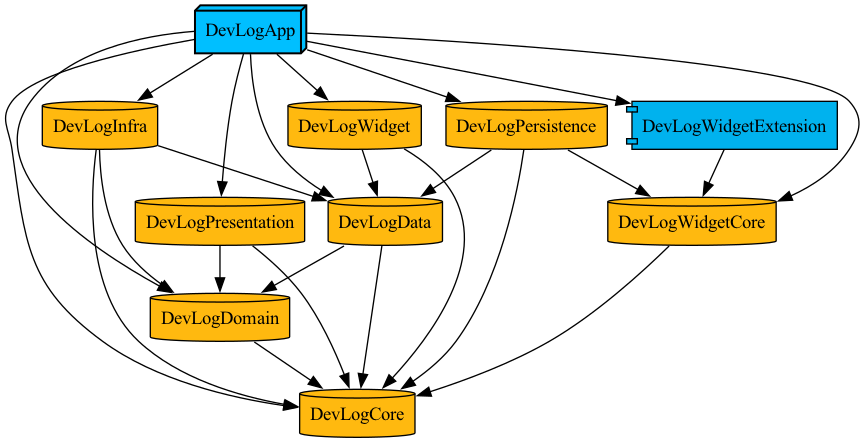
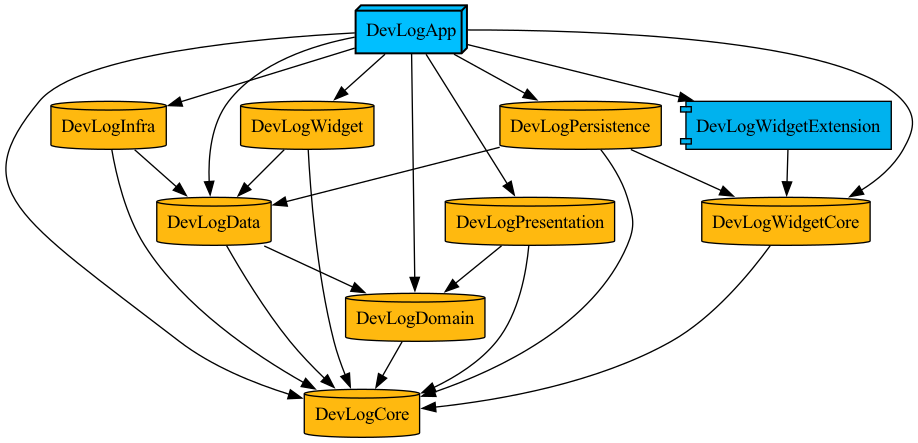
[#561] 하네스의 의존성 방향 지시문을 수정한다 (#566)
* chore: 아키텍처 하네스 모듈 경계 갱신

* chore: 같은 레이어 내부 DI 제한 지침 추가

* refactor: Infra Domain 타깃 의존성 제거

* docs: Tuist 모듈 그래프 갱신

* chore: Widget 중심 위젯 브리지 소유권 지침 정리

diff --git a/Application/DevLogInfra/Project.swift b/Application/DevLogInfra/Project.swift
@@ -10,7 +10,6 @@ let project = Project.devlogFramework(
     packages: DevLogPackages.infraPackages,
     dependencies: [
         .project(target: "DevLogData", path: "../DevLogData"),
-        .project(target: "DevLogDomain", path: "../DevLogDomain"),
         .project(target: "DevLogCore", path: "../DevLogCore"),
     ] + DevLogPackages.infraPackageDependencies,
     hasTests: true

diff --git a/.hermes/skills/devlog-architecture-harness/references/devlog-architecture-flow.md b/.hermes/skills/devlog-architecture-harness/references/devlog-architecture-flow.md
@@ -77,8 +77,9 @@ flowchart TD
 	Domain["DevLogDomain\nEntities\nRepository protocols\nUse cases"]
 	Data["DevLogData\nRepository implementations\nDTOs\nMappers\nService/store protocols"]
 	Infra["DevLogInfra\nFirebase\nSocial login\nNetwork\nLink metadata\nMessaging"]
-	Persistence["DevLogPersistence\nUserDefaults\nImage store\nWidget snapshot persistence"]
-	Core["DevLogCore\nDI\nLogger\nShared value/query types\nWidget snapshot values"]
+	Persistence["DevLogPersistence\nUserDefaults\nImage store\nNon-widget app persistence"]
+	Widget["DevLogWidget\nApp-side widget bridge\nSync/session handlers\nSnapshot update orchestration\nWidgetKit reload bridge"]
+	Core["DevLogCore\nDI\nLogger\nShared value/query types\nLightweight widget values"]
 	WidgetCore["DevLogWidgetCore\nWidget snapshot models\nFactories\nApp Group constants"]
 	WidgetExtension["DevLogWidgetExtension\nWidgetKit UI\nProviders\nTimelines"]
 
@@ -88,7 +89,9 @@ flowchart TD
 	App --> Infra
 	App --> Persistence
 	App --> Core
+	App --> Widget
 	App --> WidgetCore
+	App -.-> WidgetExtension
 
 	Presentation --> Domain
 	Presentation --> Core
@@ -103,7 +106,10 @@ flowchart TD
 
 	Persistence --> Data
 	Persistence --> Core
-	Persistence --> WidgetCore
+
+	Widget --> Data
+	Widget --> Core
+	Widget --> WidgetCore
 
 	WidgetExtension --> WidgetCore
 	WidgetCore --> Core
@@ -113,15 +119,26 @@ flowchart TD
 
 | Layer | Owns | Allowed direction | Ask before |
 | --- | --- | --- | --- |
-| `DevLogCore` | DI primitives, logger, shared value/query types, widget snapshot values | No DevLog layer dependency | Moving domain entities into Core |
+| `DevLogCore` | DI primitives, logger, shared value/query types, display options, activity kinds, lightweight widget bridge values | No DevLog layer dependency | Moving domain entities into Core |
 | `DevLogDomain` | entities, repository protocols, use cases | Core only | Adding Data, Infra, Persistence, Presentation, App, Widget UI, or SDK dependency |
-| `DevLogData` | repository implementations, DTOs, mappers, data protocols | Domain, Core | Adding concrete Firebase, WidgetKit, storage, or platform implementation details |
-| `DevLogInfra` | Firebase, social login, network, metadata, messaging implementations | Data, Core | Moving SDK-specific behavior out of Infra |
-| `DevLogPersistence` | local stores, image cache, widget snapshot persistence | Data, Core, WidgetCore | Moving domain logic or remote SDK behavior into Persistence |
-| `DevLogPresentation` | UI, view models, coordinators, presentation state | Domain, Core | Adding Data, Infra, Persistence, or App dependency |
-| `DevLogApp` | composition root, lifecycle, assembler wiring | Concrete app layers | Moving feature logic into App |
-| `DevLogWidgetCore` | widget data contracts and pure snapshot logic | Core | Adding Domain, Data, Infra, Persistence, Presentation, or App dependency |
+| `DevLogData` | repository implementations, DTOs, mappers, data protocols, widget repository/updater/sync contracts | Domain, Core | Adding concrete Firebase, GoogleSignIn, WidgetKit, storage, WidgetCore snapshot model/factory usage, or platform implementation details; moving concrete widget handlers into Data |
+| `DevLogInfra` | Firebase, social login, network, metadata, messaging implementations | Data, Core | Moving SDK-specific behavior out of Infra; adding any Domain dependency, source import, or SDK service contract coupling |
+| `DevLogPersistence` | local stores, image cache, non-widget app persistence | Data, Core | Adding WidgetCore, WidgetKit reload, DevLogWidget, widget snapshot generation, or widget bridge ownership |
+| `DevLogPresentation` | UI, view models, coordinators, presentation state, narrow presentation-scoped platform side effects | Domain, Core | Adding Data, Infra, Persistence, or App dependency; expanding platform service ownership beyond UI-side effects |
+| `DevLogWidget` | app-side widget bridge, sync bus implementation, sync/session handlers, snapshot generation/persistence orchestration, WidgetKit reload bridge, widget assembler | Data, Core, WidgetCore | Adding Domain, Infra, Persistence, Presentation, or App dependency |
+| `DevLogApp` | composition root, lifecycle, assembler wiring, app target ownership for widget extension embedding | Concrete app layers | Moving feature logic into App |
+| `DevLogWidgetCore` | widget snapshot models, factories, app-group keys/defaults store, deep links, pure snapshot logic | Core | Adding Domain, Data, Infra, Persistence, Presentation, App, or DevLogWidget dependency |
 | `DevLogWidgetExtension` | WidgetKit rendering and timeline plumbing | WidgetCore | Calling app/domain services directly |
+
+## Layer-internal dependency injection
+
+Do not inject dependencies between types that belong to the same layer.
+
+This rule covers initializer injection, stored-property injection, environment injection, and resolving same-layer types through `DIContainer`.
+
+The only allowed exception is a SwiftUI `View` file in `Application/DevLogPresentation` receiving same-layer presentation objects such as a ViewModel, Coordinator, or Store for UI composition.
+
+That exception does not apply to non-View files in Presentation, and does not apply to Core, Domain, Data, Infra, Persistence, Widget, App, WidgetCore, WidgetExtension, or Firebase functions.
 
 ## Presentation StorePattern flow
 
@@ -158,8 +175,9 @@ flowchart TD
 	CoreDomain{"Core vs Domain ownership?"}
 	Shared{"Moved only because shared?"}
 	NewDependency{"New module dependency?"}
+	SameLayerDI{"Same-layer dependency injection?"}
 	ExternalSDK{"External SDK crosses layer?"}
-	WidgetBoundary{"WidgetCore sees app/domain/data?"}
+	WidgetBoundary{"Widget sync ownership or WidgetCore boundary changes?"}
 	BuildShortcut{"Build fix relaxes boundary?"}
 	ScopeDrift{"Outside current task scope?"}
 	Ask["Ask user before editing"]
@@ -171,7 +189,10 @@ flowchart TD
 	Shared -->|Yes| Ask
 	Shared -->|No| NewDependency
 	NewDependency -->|Yes| Ask
-	NewDependency -->|No| ExternalSDK
+	NewDependency -->|No| SameLayerDI
+	SameLayerDI -->|Presentation View file| ExternalSDK
+	SameLayerDI -->|No| ExternalSDK
+	SameLayerDI -->|Other| Ask
 	ExternalSDK -->|Yes| Ask
 	ExternalSDK -->|No| WidgetBoundary
 	WidgetBoundary -->|Yes| Ask
@@ -216,23 +237,34 @@ Use this flow before introducing or moving imports such as Firebase, GoogleSignI
 flowchart TD
 	Import["External framework import"]
 	Firebase{"Firebase/Auth/Firestore/Functions/Messaging?"}
-	SocialLogin{"GoogleSignIn or AuthenticationServices login implementation?"}
+	SocialLogin{"GoogleSignIn or AuthenticationServices?"}
+	SocialLoginClassification{"Existing presentation/data cancellation/error classification?"}
 	NetworkMeta{"Network or LinkPresentation implementation?"}
+	UserNotifications{"UserNotifications?"}
 	WidgetKit{"WidgetKit?"}
 	Infra["Prefer DevLogInfra"]
-	Persistence["Allow only for widget snapshot update/persistence if already established"]
+	ErrorClassification["Keep narrow in DevLogData or DevLogPresentation only when matching the existing cancellation-classification pattern"]
+	PresentationBadge["Allow in DevLogPresentation only for established badge/UI side effects"]
+	Widget["Allow in DevLogWidget for app-side snapshot update/reload orchestration"]
 	WidgetExtension["Allow in DevLogWidgetExtension rendering/timeline code"]
 	Ask["Ask user before crossing layer"]
 
 	Import --> Firebase
 	Firebase -->|Yes| Infra
 	Firebase -->|No| SocialLogin
-	SocialLogin -->|Yes| Infra
+	SocialLogin -->|Login implementation| Infra
+	SocialLogin -->|Presentation/data error classification| SocialLoginClassification
+	SocialLoginClassification -->|Matches existing pattern| ErrorClassification
+	SocialLoginClassification -->|New or broader behavior| Ask
 	SocialLogin -->|No| NetworkMeta
 	NetworkMeta -->|Yes| Infra
-	NetworkMeta -->|No| WidgetKit
+	NetworkMeta -->|No| UserNotifications
+	UserNotifications -->|Badge/UI side effect| PresentationBadge
+	UserNotifications -->|Push or messaging service| Infra
+	UserNotifications -->|Other| Ask
+	UserNotifications -->|No| WidgetKit
 	WidgetKit -->|Widget UI| WidgetExtension
-	WidgetKit -->|Snapshot update already established| Persistence
+	WidgetKit -->|App-side snapshot update/reload| Widget
 	WidgetKit -->|Other| Ask
 ```
 
@@ -240,16 +272,24 @@ flowchart TD
 
 ```mermaid
 flowchart LR
-	App["App runtime\nDomain/Data/Infra/Persistence"]
-	Snapshot["Snapshot generation\nPersistence + WidgetCore"]
+	App["App runtime\nsession and mutation events"]
+	WidgetBridge["DevLogWidget\nsync bus implementation\nsync/session handlers"]
+	DataContracts["DevLogData\nwidget repository/updater contracts"]
+	SnapshotInputs["DevLogData\nsnapshot input repository"]
+	Snapshot["DevLogWidget\nsnapshot generation/persistence\nWidgetKit reload bridge"]
+	WidgetModels["DevLogWidgetCore\nsnapshot models/factories/store contracts"]
 	AppGroup["App Group storage\nShared defaults"]
-	WidgetCore["WidgetCore\nSnapshot models\nFactories"]
 	WidgetExtension["Widget extension\nWidgetKit UI"]
 
-	App --> Snapshot
-	Snapshot --> AppGroup
-	AppGroup --> WidgetCore
-	WidgetCore --> WidgetExtension
+	App --> WidgetBridge
+	WidgetBridge --> DataContracts
+	DataContracts --> SnapshotInputs
+	DataContracts --> Snapshot
+	SnapshotInputs --> WidgetBridge
+	Snapshot --> WidgetModels
+	WidgetModels --> AppGroup
+	AppGroup --> WidgetModels
+	WidgetModels --> WidgetExtension
 ```
 
 Widget UI should consume snapshot data. It should not fetch app services or domain repositories directly.

diff --git a/AGENTS.md b/AGENTS.md
@@ -41,16 +41,24 @@ Treat this repository as a Tuist-generated, workspace-based modular iOS app. The
 
 ### Current layer map
 
-- `Application/DevLogCore`: shared app primitives such as DI, logging, query/value types, display options, and widget snapshot value types. Core is shared, but shared access alone is not enough reason to move domain entities into Core.
+- `Application/DevLogCore`: shared app primitives such as DI, logging, query/value types, display options, activity kinds, and lightweight widget bridge values such as `WidgetTodoSnapshot`. Core is shared, but shared access alone is not enough reason to move domain entities into Core.
 - `Application/DevLogDomain`: entities, repository protocols, use case protocols, and use case implementations. Domain may depend on Core. Domain must not depend on Data, Infra, Persistence, Presentation, App, Widget extension UI, Firebase SDKs, or storage implementations.
-- `Application/DevLogData`: repository implementations, DTOs, mappers, data-layer protocols for external services/stores, and widget sync coordination. Data may depend on Domain and Core. Data should not gain direct Firebase, GoogleSignIn, WidgetKit, or concrete storage implementation details unless the user explicitly approves the boundary change.
-- `Application/DevLogInfra`: Firebase, social login, network, link metadata, messaging, and platform service implementations. Infra may depend on Data and Core. Firebase/Auth/Firestore/Functions/Messaging-specific behavior belongs here unless the user approves another boundary.
-- `Application/DevLogPersistence`: local persistence, user defaults, image store, and widget snapshot persistence/updating. Persistence may depend on Data, Core, and WidgetCore when needed for snapshot persistence.
-- `Application/DevLogPresentation`: SwiftUI views, view models, coordinators, UI state structures, and presentation-only helpers. Presentation may depend on Domain and Core. It must not depend on Data, Infra, Persistence, or App.
-- `Application/DevLogApp`: composition root, app lifecycle, app delegate, app-level routing, and assembler wiring. App may import concrete layers to assemble the dependency graph.
-- `Widget/DevLogWidgetCore`: widget snapshot models, factories, keys, app-group constants, and widget-only pure helpers. WidgetCore may depend on Core. It must not depend on Domain, Data, Infra, Persistence, Presentation, or App without explicit user approval.
+- `Application/DevLogData`: repository implementations, DTOs, mappers, data-layer protocols for external services/stores, widget snapshot repository implementations, and widget sync/updater contracts. Data may depend on Domain and Core. Data should not own concrete widget sync handlers, event bus implementations, WidgetCore snapshot model/factory usage, or WidgetKit reload behavior, and should not gain direct Firebase, GoogleSignIn, WidgetKit, or concrete storage implementation details unless the user explicitly approves the boundary change.
+- `Application/DevLogInfra`: Firebase, social login, network, link metadata, messaging, and platform service implementations. Infra may depend on Data and Core. Infra must not depend on Domain even if a manifest-only target dependency exists. Firebase/Auth/Firestore/Functions/Messaging-specific behavior belongs here unless the user approves another boundary.
+- `Application/DevLogPersistence`: local persistence, user defaults, image store, and non-widget app persistence. Persistence may depend on Data and Core. Widget snapshot generation, widget snapshot persistence orchestration, and WidgetKit reload behavior belong to DevLogWidget.
+- `Application/DevLogPresentation`: SwiftUI views, view models, coordinators, UI state structures, presentation-only helpers, and narrow presentation-scoped platform side effects such as notification badge updates. Presentation may depend on Domain and Core. It must not depend on Data, Infra, Persistence, or App.
+- `Application/DevLogWidget`: app-side bridge between the app runtime and widget system, widget sync event bus implementation, widget sync/session handlers, auth-session sync provider, widget snapshot generation/persistence orchestration, WidgetKit reload bridge, and `WidgetAssembler`. DevLogWidget may depend on Data, Core, and WidgetCore. It must not depend on Domain, Infra, Persistence, Presentation, or App without explicit user approval.
+- `Application/DevLogApp`: composition root, app lifecycle, app delegate, app-level routing, assembler wiring, and app target ownership for widget extension embedding. App may import concrete layers to assemble the dependency graph.
+- `Widget/DevLogWidgetCore`: widget snapshot models, factories, keys, app-group constants/defaults store, deep links, and widget-only pure helpers. WidgetCore may depend on Core. It must not depend on Domain, Data, Infra, Persistence, Presentation, App, or DevLogWidget without explicit user approval.
 - `Widget/DevLogWidgetExtension`: WidgetKit UI, widget providers, entries, timelines, and extension resources. It should consume WidgetCore outputs rather than app/domain services directly.
 - `Firebase/functions`: TypeScript Cloud Functions. Deploy updated functions one by one separately.
+
+### Layer-internal dependency injection
+
+- Do not inject dependencies between types that belong to the same layer.
+- This applies to initializer injection, stored-property injection, environment injection, and resolving same-layer types through `DIContainer`.
+- The only allowed exception is a SwiftUI `View` file in `Application/DevLogPresentation` receiving same-layer presentation objects such as a ViewModel, Coordinator, or Store for UI composition.
+- The exception does not apply to non-View files in Presentation, and does not apply to Core, Domain, Data, Infra, Persistence, Widget, App, WidgetCore, WidgetExtension, or Firebase functions.
 
 ### StorePattern flow
 
@@ -71,6 +79,13 @@ Ask the user before editing when any of these are true:
 - Firebase, GoogleSignIn, AuthenticationServices, UserNotifications, LinkPresentation, Network, WidgetKit, or storage implementation details would move to another layer.
 - A repository protocol, service protocol, assembler, or DI ownership boundary would change.
 - WidgetCore would start depending on app/domain/data implementation concepts.
+- DevLogWidget would start depending on Domain, Infra, Persistence, Presentation, or App.
+- DevLogWidget would use WidgetKit for anything beyond the app-side widget reload bridge.
+- Widget sync ownership would move away from the preferred split: Data contracts and snapshot repositories, DevLogWidget app-side bridge/snapshot update orchestration, WidgetCore snapshot models/factories/store contracts, and WidgetExtension rendering.
+- Persistence would gain widget snapshot generation, WidgetCore, WidgetKit reload, or DevLogWidget bridge ownership.
+- Data or Presentation would expand platform SDK usage beyond the existing narrow cancellation-classification or notification-badge patterns.
+- Infra would add any Domain dependency, source import, or SDK service contract coupling.
+- A same-layer dependency would be injected outside a SwiftUI `View` file in `Application/DevLogPresentation`.
 - The requested change suggests cleanup outside the current issue or PR scope.
 
 ### Safe mechanical changes

diff --git a/.hermes/skills/devlog-architecture-harness/references/devlog-workflow-rules.md b/.hermes/skills/devlog-architecture-harness/references/devlog-workflow-rules.md
@@ -29,6 +29,7 @@ This reference holds DevLog-specific working rules that should live with the pro
 - Do not force a single `objectVersion` across projects. Treat Xcode's actual save output as the source of truth.
 - For synchronized-root cleanup, verify on copied files or a narrowed rule set before touching real project files.
 - When changing project structure, update the Tuist manifest first and treat generated Xcode project churn as disposable output.
+- Do not promote a manifest-only target dependency to an allowed architecture direction. Check source imports and ownership before updating the layer map.
 
 ## PR and review handling
 
@@ -56,20 +57,30 @@ This reference holds DevLog-specific working rules that should live with the pro
 - Keep project-file, lockfile, and code changes separated when the task scope requires clean review.
 - Do not broaden architecture work into unrelated Firestore, Messaging, UI, or safety edits.
 
+## Layer-internal dependency injection
+
+- Do not inject dependencies between types that belong to the same layer.
+- This includes initializer injection, stored-property injection, environment injection, and resolving same-layer types through `DIContainer`.
+- The only allowed exception is a SwiftUI `View` file in `Application/DevLogPresentation` receiving same-layer presentation objects such as a ViewModel, Coordinator, or Store for UI composition.
+- The exception does not apply to non-View files in Presentation, and does not apply to Core, Domain, Data, Infra, Persistence, Widget, App, WidgetCore, WidgetExtension, or Firebase functions.
+
 ## Data, Domain, and Infra boundary
 
 - Do not move domain entities to Core only because multiple modules need them.
 - Keep protocol location and implementation layer distinct when explaining or changing boundaries.
 - If a Data protocol is implemented by Infra, every type in that protocol signature must be visible to Infra.
+- `DevLogInfra` should depend on Data and Core, not Domain. Do not treat a manifest-only Domain target dependency as architecture permission.
 - Prefer a Data-side boundary value plus repository mapping when Infra should not import Domain.
 - For example, keep the app-facing Domain query separate from an Infra-facing Data query when that avoids Domain coupling in service protocols.
 - Firebase-specific error detection belongs in Infra; Data should handle domain-level errors after mapping.
+- Data and Presentation currently keep narrow social-login cancellation classification in `DataLayerError` and `Error+SocialLogin`. Do not expand that into concrete login implementation or broader SDK ownership without explicit approval.
 
 ## Presentation StorePattern
 
 - Preserve the existing `StorePattern` shape: `@MainActor`, `State`, `Action`, `SideEffect`, `send -> reduce -> run`.
 - Reducers compute state and return side effects.
 - I/O belongs in `run` or injected services.
+- Presentation currently owns narrow notification badge side effects through `UserNotifications`. Do not expand that into push service or messaging ownership.
 - Do not leave reducer-era helper methods behind after moving work into `run`.
 - Before adding task cancellation or async wrappers, inspect whether the underlying operation is actually async.
 
@@ -77,7 +88,10 @@ This reference holds DevLog-specific working rules that should live with the pro
 
 - Widget UI should consume snapshot data, not app/domain services.
 - `DevLogWidgetCore` should stay free of Domain, Data, Infra, Persistence, Presentation, and App dependencies unless the user explicitly approves a boundary change.
-- Prefer an app-driven snapshot flow: app/runtime data fetch, snapshot generation, App Group storage, WidgetCore model/factory, WidgetExtension rendering.
+- `DevLogWidget` owns the app-side widget bridge: sync event bus implementation, sync event handlers, session sync handler, auth-session sync provider, snapshot generation/persistence orchestration, WidgetKit reload bridge, and `WidgetAssembler`.
+- `DevLogData` owns widget-related contracts and repository implementations, including `WidgetSyncEventBus`, `WidgetSnapshotUpdater`, and `WidgetTodoSnapshotRepository`. Data should not own concrete widget handlers, WidgetCore snapshot model/factory usage, or WidgetKit reload behavior.
+- `DevLogPersistence` owns local persistence, user defaults, image store, and non-widget app persistence.
+- Prefer an app-driven snapshot flow: app/runtime event, DevLogWidget sync handler, Data snapshot input fetch, DevLogWidget snapshot update, App Group storage through WidgetCore contracts, WidgetExtension rendering.
 - `WidgetTodoSnapshot` is a lightweight snapshot value, not a full domain `Todo`.
 - Do not make `Todo.number` or `WidgetTodoSnapshot.number` non-optional without a separate saved-vs-draft model decision.
 - If a widget sync flow needs one timestamp for multiple snapshots, capture `Date()` once and pass it through to avoid midnight or quarter-boundary drift.

diff --git a/.hermes/skills/devlog-architecture-harness/SKILL.md b/.hermes/skills/devlog-architecture-harness/SKILL.md
@@ -75,8 +75,15 @@ Ask the user before editing when:
 - A shared type is being moved only because multiple modules need access.
 - Firebase/Auth/Firestore/Functions/Messaging-specific logic would leave Infra.
 - WidgetCore would depend on Domain, Data, Infra, Persistence, Presentation, or App.
+- DevLogWidget would depend on Domain, Infra, Persistence, Presentation, or App.
+- DevLogWidget would use WidgetKit for anything beyond the app-side widget reload bridge.
+- Widget sync ownership would move away from the preferred split: Data contracts and snapshot repositories, DevLogWidget app-side bridge/snapshot update orchestration, WidgetCore snapshot models/factories/store contracts, and WidgetExtension rendering.
+- Persistence would gain widget snapshot generation, WidgetCore, WidgetKit reload, or DevLogWidget bridge ownership.
 - Presentation would depend on Data, Infra, Persistence, or App.
 - Data would gain concrete SDK or storage implementation details.
+- Data or Presentation would expand platform SDK usage beyond the existing narrow cancellation-classification or notification-badge patterns.
+- Infra would add any Domain dependency, source import, or SDK service contract coupling.
+- A same-layer dependency would be injected outside a SwiftUI `View` file in `Application/DevLogPresentation`.
 - The Presentation `StorePattern` flow or reducer responsibility would change.
 - A compile fix requires relaxing the intended architecture.
 - The change is outside the requested issue or PR scope.
@@ -118,6 +125,9 @@ After completion, report only:
 
 - Do not infer project-specific architecture policy from generic Clean Architecture rules when DevLog already has a concrete pattern.
 - Do not move domain entities to Core just because multiple modules need them.
+- Do not inject same-layer dependencies except from SwiftUI `View` files in `Application/DevLogPresentation` into same-layer presentation objects for UI composition.
+- Do not collapse the current DevLogWidget bridge back into Data, Persistence, App, or WidgetCore without explicit boundary approval.
+- Route app-side widget bridge and snapshot update orchestration through DevLogWidget.
 - Do not hide architecture decisions inside build-fix wording.
 - Do not broaden a modularization task into unrelated Firestore, Messaging, or UI safety edits.
 - Do not mark work complete if the diff contains unrelated project-file or lockfile churn.
